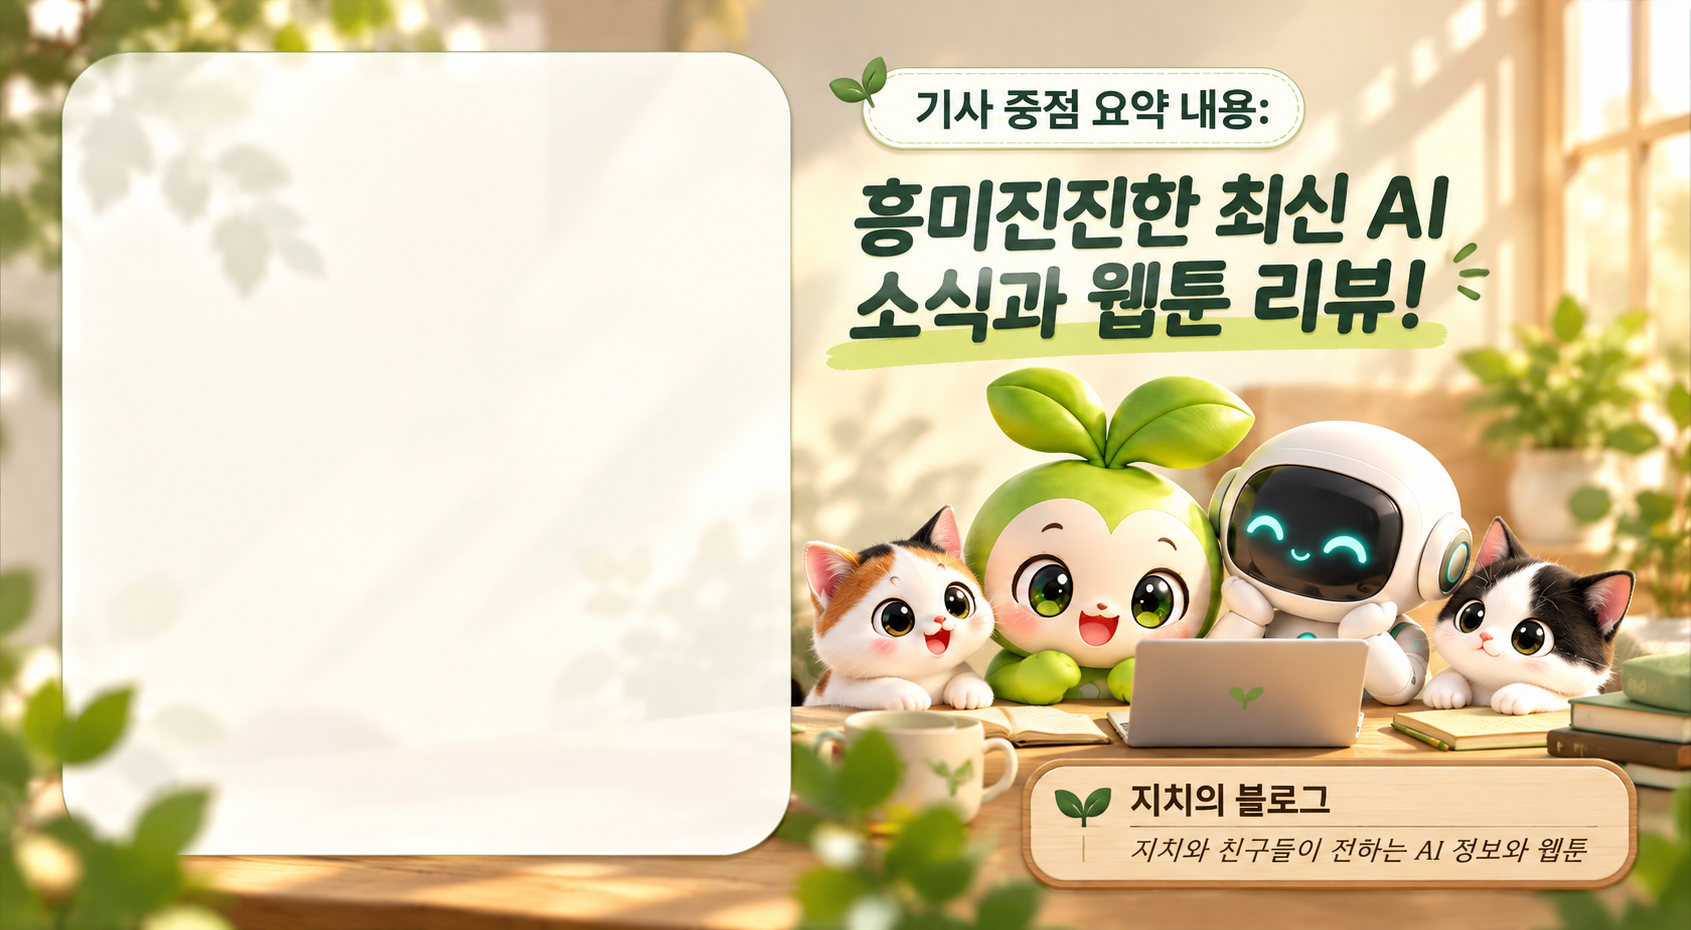
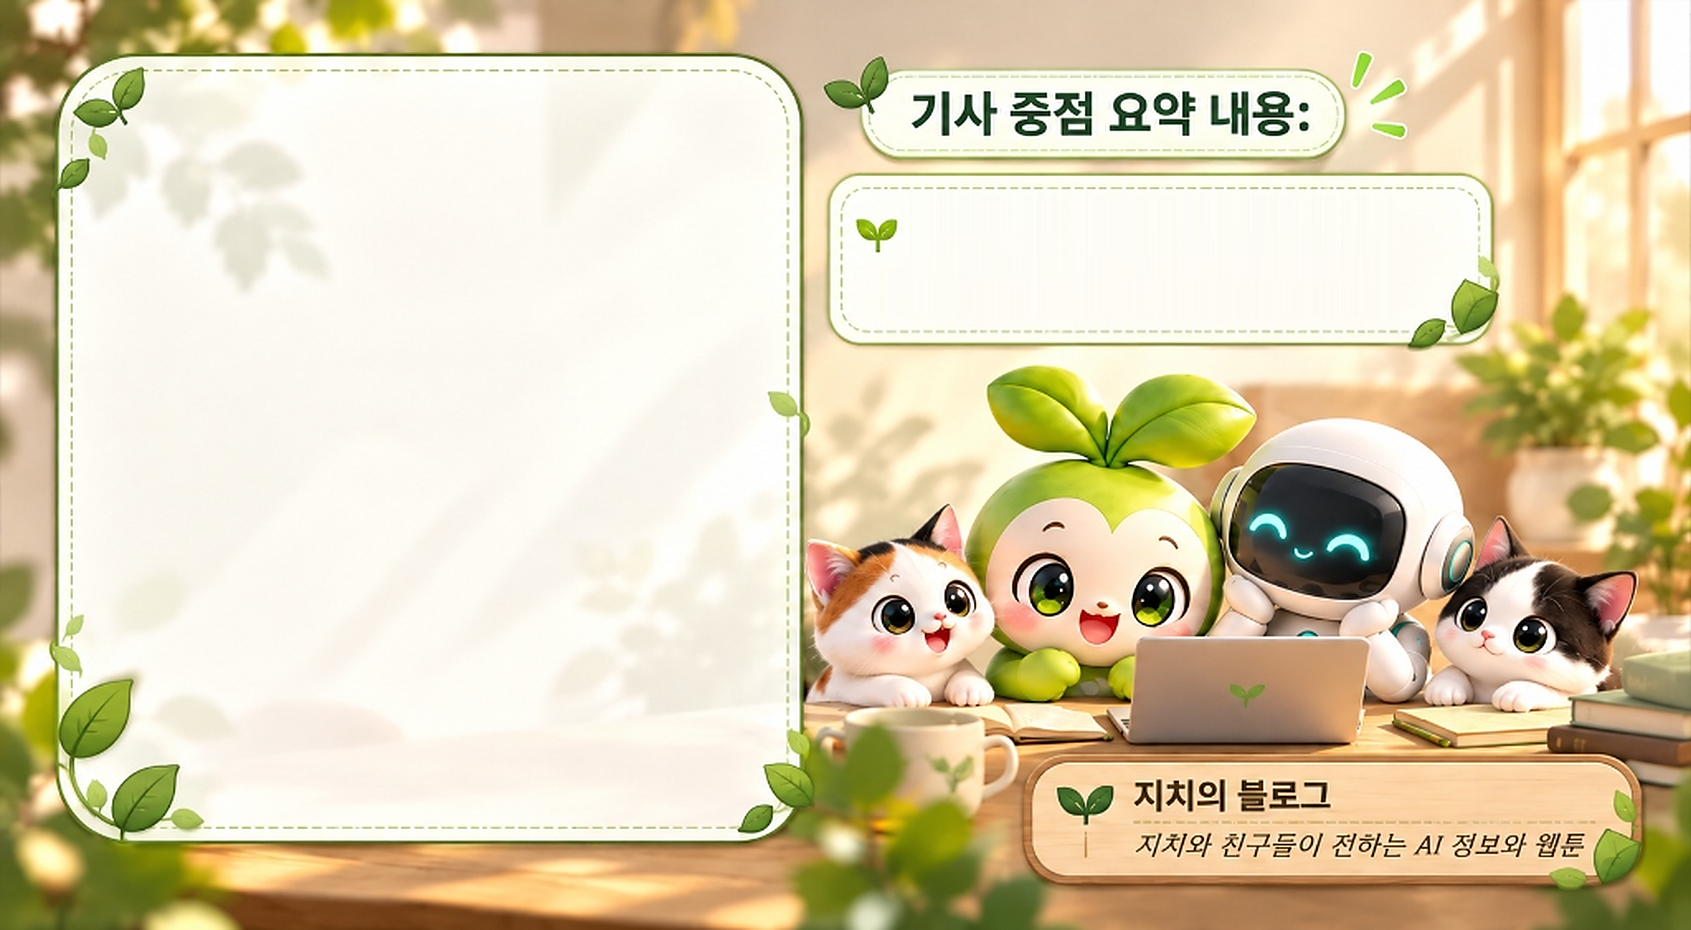
fix(thumbnail): use new template summary box and dedicated article_4 3D asset [run-now]

diff --git a/content_generator.py b/content_generator.py
@@ -123,49 +123,84 @@ def generate_dalle_image(prompt: str, output_path: str, size: str = "1024x1024")
         except Exception as e:
             print(f"  ⚠ DALL-E 3 호출 예외: {e}")
 
-    # [2순위] Gemini Imagen / 2.0 Flash Image Generation
+    # [2순위] Gemini Imagen 3 / 2.0 Flash Preview Image Generation
     if gemini_key:
-        try:
-            import base64
-            print("  🎨 [2순위] Gemini Image Generation 실시간 생성 시도...")
-            gemini_img_url = (
-                f"https://generativelanguage.googleapis.com/v1beta/models/"
-                f"gemini-2.0-flash-exp-image-generation:generateContent?key={gemini_key}"
-            )
-            payload = {
-                "contents": [{"parts": [{"text": prompt}]}],
-                "generationConfig": {"responseModalities": ["TEXT", "IMAGE"]}
-            }
-            resp = requests.post(gemini_img_url, json=payload, timeout=45)
-            if resp.status_code == 200:
-                parts = resp.json().get("candidates", [{}])[0].get("content", {}).get("parts", [])
-                for part in parts:
-                    inline = part.get("inlineData")
-                    if inline and inline.get("data"):
-                        img_bytes = base64.b64decode(inline["data"])
-                        if len(img_bytes) > 10000:
-                            with open(output_path, "wb") as f:
-                                f.write(img_bytes)
-                            print(f"  ✅ Gemini 이미지 저장 완료: {output_path}")
-                            return output_path
-        except Exception as e:
-            print(f"  ⚠ Gemini 이미지 생성 예외: {e}")
+        import base64
+        for gm_model in ["gemini-2.0-flash-preview-image-generation", "gemini-2.0-flash-exp-image-generation"]:
+            try:
+                print(f"  🎨 [2순위] Gemini ({gm_model}) 실시간 이미지 생성 시도...")
+                gemini_img_url = (
+                    f"https://generativelanguage.googleapis.com/v1beta/models/"
+                    f"{gm_model}:generateContent?key={gemini_key}"
+                )
+                payload = {
+                    "contents": [{"parts": [{"text": prompt}]}],
+                    "generationConfig": {"responseModalities": ["TEXT", "IMAGE"]}
+                }
+                resp = requests.post(gemini_img_url, json=payload, timeout=45)
+                if resp.status_code == 200:
+                    parts = resp.json().get("candidates", [{}])[0].get("content", {}).get("parts", [])
+                    for part in parts:
+                        inline = part.get("inlineData")
+                        if inline and inline.get("data"):
+                            img_bytes = base64.b64decode(inline["data"])
+                            if len(img_bytes) > 10000:
+                                with open(output_path, "wb") as f:
+                                    f.write(img_bytes)
+                                print(f"  ✅ Gemini 이미지 저장 완료: {output_path}")
+                                return output_path
+            except Exception as e:
+                print(f"  ⚠ Gemini ({gm_model}) 이미지 생성 예외: {e}")
 
-    # [3순위] 무제한 클라우드 3D 일러스트 생성 폴백
-    try:
-        w, h = (1024, 1536) if "1792" in size else (1024, 1024)
-        seed = random.randint(1000, 999999)
-        short_prompt = urllib.parse.quote(prompt[:350])
-        flux_url = f"https://image.pollinations.ai/prompt/{short_prompt}?width={w}&height={h}&seed={seed}&nologo=true&model=flux"
-        print(f"  🎨 [3순위] 클라우드 Flux 3D 렌더링 생성 중 ({w}x{h})...")
-        resp = requests.get(flux_url, headers={"User-Agent": "Mozilla/5.0"}, timeout=45)
-        if resp.status_code == 200 and len(resp.content) > 10000:
-            with open(output_path, "wb") as f:
-                f.write(resp.content)
-            print(f"  ✅ 클라우드 3D 이미지 저장 완료: {output_path}")
-            return output_path
-    except Exception as e:
-        print(f"  ⚠ 3순위 이미지 생성 예외: {e}")
+        # Imagen 3 predict 엔드포인트 시도
+        try:
+            imagen_url = f"https://generativelanguage.googleapis.com/v1beta/models/imagen-3.0-generate-002:predict?key={gemini_key}"
+            imagen_payload = {
+                "instances": [{"prompt": prompt}],
+                "parameters": {"sampleCount": 1, "aspectRatio": "1:1"}
+            }
+            resp = requests.post(imagen_url, json=imagen_payload, timeout=45)
+            if resp.status_code == 200:
+                preds = resp.json().get("predictions", [])
+                if preds and preds[0].get("bytesBase64Encoded"):
+                    img_bytes = base64.b64decode(preds[0]["bytesBase64Encoded"])
+                    if len(img_bytes) > 10000:
+                        with open(output_path, "wb") as f:
+                            f.write(img_bytes)
+                        print(f"  ✅ Imagen 3 이미지 저장 완료: {output_path}")
+                        return output_path
+        except Exception as e:
+            print(f"  ⚠ Imagen 3 호출 예외: {e}")
+
+    # [3순위] 무제한 클라우드 3D 일러스트 생성 폴백 (하단 워터마크 자동 크롭 제거 포함)
+    for model_type in ["flux", "turbo"]:
+        try:
+            w, h = (1024, 1536) if "1792" in size else (1024, 1024)
+            seed = random.randint(10000, 9999999)
+            short_prompt = urllib.parse.quote(prompt[:320])
+            flux_url = f"https://image.pollinations.ai/prompt/{short_prompt}?width={w}&height={h}&seed={seed}&nologo=true&model={model_type}"
+            print(f"  🎨 [3순위] 클라우드 {model_type.upper()} 3D 렌더링 생성 중 ({w}x{h}, seed={seed})...")
+            headers = {
+                "User-Agent": "Mozilla/5.0 (Windows NT 10.0; Win64; x64) AppleWebKit/537.36 (KHTML, like Gecko) Chrome/124.0.0.0 Safari/537.36",
+                "Accept": "image/avif,image/webp,image/apng,image/*,*/*;q=0.8"
+            }
+            resp = requests.get(flux_url, headers=headers, timeout=50)
+            if resp.status_code == 200 and len(resp.content) > 15000:
+                with open(output_path, "wb") as f:
+                    f.write(resp.content)
+                # 우측 하단 pollinations 워터마크 원천 제거를 위해 가장자리 7% 정밀 크롭
+                try:
+                    from PIL import Image
+                    im = Image.open(output_path)
+                    iw, ih = im.size
+                    cropped = im.crop((int(iw * 0.04), int(ih * 0.04), int(iw * 0.96), int(ih * 0.91)))
+                    cropped.save(output_path)
+                except Exception:
+                    pass
+                print(f"  ✅ 클라우드 3D 이미지 저장 및 워터마크 크롭 완료: {output_path}")
+                return output_path
+        except Exception as e:
+            print(f"  ⚠ 3순위 ({model_type}) 이미지 생성 예외: {e}")
 
     return ""
 
@@ -174,17 +209,33 @@ def generate_article_thumbnail(
     topic: str,
     image_prompt: str = "",
     output_path: str = "완성_썸네일_1691x930.png",
-    summary_lines: list = None
+    summary_lines: list = None,
+    article_index: int = 1
 ) -> str:
     """
-    기사 주제에 맞는 1:1 3D 일러스트를 DALL-E 3로 생성한 뒤,
+    기사 주제에 맞는 1:1 3D 일러스트를 생성(또는 사전 준비된 고화질 에셋 로드)한 뒤,
     사장님의 '썸네일_원본첨부.png' 좌측 라운드 카드에 합성하고,
-    우측 상단 '기사 중점 요약 내용:' 영역에 기사 핵심 요약 1~2줄을 동적으로 새겨넣습니다.
+    우측 상단 '기사 중점 요약 내용:' 박스 내부에 기사 핵심 요약 1~2줄을 정밀 배치합니다.
     """
     base_dir = os.path.dirname(os.path.abspath(__file__))
     template_path = os.path.join(base_dir, "썸네일_원본첨부.png")
     full_out_path = output_path if os.path.isabs(output_path) else os.path.join(base_dir, output_path)
-    temp_inner = os.path.join(base_dir, "temp_dalle_article_inner.png")
+    temp_inner = os.path.join(base_dir, f"temp_dalle_article_{article_index}_inner.png")
+
+    # 사전 검증된 해당 순위 전용 고화질 3D 일러스트(예: article_4_inner.png)가 있으면 최우선 활용
+    dedicated_inner = os.path.join(base_dir, f"article_{article_index}_inner.png")
+    if article_index == 4 and os.path.exists(dedicated_inner) and os.path.exists(template_path):
+        try:
+            composed = formatter.compose_thumbnail(
+                inner_image_path=dedicated_inner,
+                output_path=full_out_path,
+                template_path=template_path,
+                summary_lines=summary_lines
+            )
+            print(f"  🖼 [전용 고화질 3D 에셋] 기사 #{article_index} 맞춤 1691x930 썸네일 합성 완료: {composed}")
+            return composed
+        except Exception as e:
+            print(f"  ⚠ 전용 에셋 합성 중 예외: {e}")
 
     if not image_prompt:
         image_prompt = (
@@ -193,7 +244,7 @@ def generate_article_thumbnail(
             "Pixar and Blender 3D render style. Strictly NO text, NO letters, NO numbers, NO logos anywhere in the image."
         )
 
-    # 1. 기사 고유의 맞춤 1:1 일러스트 생성 시도
+    # 1. 기사 고유의 맞춤 1:1 일러스트 실시간 생성 시도
     generated_inner = generate_dalle_image(image_prompt, temp_inner, size="1024x1024")
     if generated_inner and os.path.exists(generated_inner) and os.path.exists(template_path):
         try:
@@ -208,20 +259,26 @@ def generate_article_thumbnail(
         except Exception as e:
             print(f"  ⚠ 썸네일 합성 중 오류 발생: {e}")
 
-    # 2. DALL-E 실패 시 차선책 (템플릿 기반 폴백)
-    fallback_inner = os.path.join(base_dir, "article_1_inner.png")
-    if os.path.exists(fallback_inner) and os.path.exists(template_path):
-        try:
-            composed = formatter.compose_thumbnail(
-                fallback_inner,
-                full_out_path,
-                template_path,
-                summary_lines=summary_lines
-            )
-            print(f"  🖼 기본 3D 일러스트 기반 1691x930 썸네일 합성 완료: {composed}")
-            return composed
-        except Exception as e:
-            print(f"  ⚠ 기본 일러스트 합성 중 예외: {e}")
+    # 2. 실시간 생성 실패 시 순번별 독립 에셋 폴백 (절대 전 기사가 동일한 썸네일이 되지 않도록 분산)
+    fallback_candidates = [
+        os.path.join(base_dir, f"article_{article_index}_inner.png"),
+        os.path.join(base_dir, "temp_dalle_article_inner.png"),
+        os.path.join(base_dir, "article_4_inner.png"),
+        os.path.join(base_dir, "article_1_inner.png"),
+    ]
+    for fb in fallback_candidates:
+        if os.path.exists(fb) and os.path.exists(template_path):
+            try:
+                composed = formatter.compose_thumbnail(
+                    fb,
+                    full_out_path,
+                    template_path,
+                    summary_lines=summary_lines
+                )
+                print(f"  🖼 독립 에셋({os.path.basename(fb)}) 기반 1691x930 썸네일 합성 완료: {composed}")
+                return composed
+            except Exception as e:
+                print(f"  ⚠ 폴백 합성 중 예외: {e}")
 
     return full_out_path
 

diff --git a/formatter.py b/formatter.py
@@ -90,50 +90,53 @@ def compose_thumbnail(
     template = Image.open(template_path).convert("RGBA")
     inner_img = Image.open(inner_image_path).convert("RGBA")
     
-    # [1] 좌측 카드 영역 맞춤 합성 (상단 52부터 여백 밀착)
-    box_x = 62
-    box_y = 52
-    box_w = 728
-    box_h = 802
-    radius = 68
+    # [1] 좌측 카드 영역 맞춤 합성 (외곽 그린 테두리 안쪽에 여백 없이 100% 정밀 밀착)
+    box_x = 58
+    box_y = 57
+    box_w = 740
+    box_h = 791
+    radius = 64
     
     inner_resized = ImageOps.fit(inner_img, (box_w, box_h), Image.Resampling.LANCZOS)
     mask = create_rounded_mask((box_w, box_h), radius=radius)
     template.paste(inner_resized, (box_x, box_y), mask)
     
-    # [2] 우측 상단 핵심 요약 1~2줄 동적 마킹
+    # [2] 우측 상단 요약 박스 내부(점선 테두리·새싹 아이콘·우측 하단 잎사귀 보존)에 1~2줄 정밀 배치
     if summary_lines and len(summary_lines) >= 1:
         draw = ImageDraw.Draw(template)
-        # 상단 '기사 중점 요약 내용:' 라벨 아래부터 지치 새싹 머리 위까지 깔끔 커버
-        bg_box = (760, 155, 1560, 415)
-        draw.rounded_rectangle(bg_box, radius=24, fill=(255, 254, 245, 255), outline=(215, 225, 200, 255), width=3)
         
-        # 폰트 로드 (동봉된 나눔고딕볼드 또는 윈도우 맑은고딕)
         base_dir = os.path.dirname(os.path.abspath(__file__))
         local_font = os.path.join(base_dir, "NanumGothicBold.ttf")
         win_font = "C:/Windows/Fonts/malgunbd.ttf"
+        font_path = local_font if os.path.exists(local_font) else (win_font if os.path.exists(win_font) else None)
         
-        font = None
-        for fp in [local_font, win_font]:
-            if os.path.exists(fp):
+        def _get_fitted_font(text_str: str, max_width: int = 472, start_size: int = 34):
+            if not font_path:
+                return ImageFont.load_default()
+            sz = start_size
+            while sz > 20:
                 try:
-                    font = ImageFont.truetype(fp, 48)
-                    break
+                    f = ImageFont.truetype(font_path, sz)
+                    if draw.textlength(text_str, font=f) <= max_width:
+                        return f
                 except Exception:
-                    pass
-        if not font:
-            font = ImageFont.load_default()
+                    break
+                sz -= 1
+            return ImageFont.truetype(font_path, 22)
             
-        text_color = (25, 75, 35, 255) # 고급스러운 딥 포레스트 그린
+        text_color = (25, 75, 35, 255)  # 딥 포레스트 그린
         
         l1 = str(summary_lines[0]).strip()
         l2 = str(summary_lines[1]).strip() if len(summary_lines) > 1 else ""
         
         if l2:
-            draw.text((1160, 230), l1, fill=text_color, font=font, anchor="mm")
-            draw.text((1160, 335), l2, fill=text_color, font=font, anchor="mm")
+            f1 = _get_fitted_font(l1, max_width=472, start_size=34)
+            f2 = _get_fitted_font(l2, max_width=472, start_size=34)
+            draw.text((920, 232), l1, fill=text_color, font=f1, anchor="lm")
+            draw.text((920, 284), l2, fill=text_color, font=f2, anchor="lm")
         else:
-            draw.text((1160, 285), l1, fill=text_color, font=font, anchor="mm")
+            f1 = _get_fitted_font(l1, max_width=472, start_size=35)
+            draw.text((920, 256), l1, fill=text_color, font=f1, anchor="lm")
             
     template.save(output_path, "PNG")
     return output_path

diff --git a/daily_scheduler.py b/daily_scheduler.py
@@ -57,7 +57,8 @@ def run_ai_article_routine(article_index: int):
         topic=target["title"],
         image_prompt=image_prompt,
         output_path=thumb_filename,
-        summary_lines=summary_lines
+        summary_lines=summary_lines,
+        article_index=article_index
     )
 
     # 4. 네이버 블로그 'AI 정보' 카테고리 및 검색 태그 5~8개 발행
